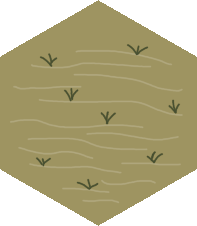
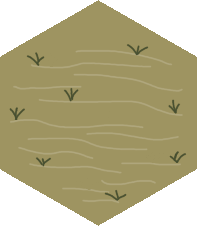
resources on tiles + population

diff --git a/src/Render.js b/src/Render.js
@@ -120,17 +120,38 @@ class Render {
         }
         this.context.closePath();
     }
-    drawHex(hex) {
+    drawResources(hex) {
         const pos = this.getWorldPosition(hex);
-
-        this.context.drawImage(Data.tileImages[hex.biome.imageName], pos.x - Settings.tileWidth / 2, pos.y - Settings.tileHeight / 2);
-
+        const amount = hex.resources.length;
+        const smallSize = Settings.resourceImageSize / 2;
+        const resourcesWidth = Settings.resourceImageSize / 2 * amount;
+        const firstPosition = pos.x - resourcesWidth / 2;
+        const height = pos.y + Settings.hexSize * 0.45;
+        let index = 0;
         // display resource
+        hex.resources.forEach((resource) => {
+            this.context.fillStyle = "rgba(24, 27, 24, 0.8)";
+            this.context.fillRect(firstPosition + index * smallSize, height, smallSize, smallSize);
+            if (hex.isExplored) {
+                this.context.drawImage(Data.resourceImages[resource.resourceData.imageName], firstPosition + index * smallSize, height, smallSize, smallSize);
+            } else {
+                this.context.drawImage(Data.resourceImages["unknownResource"], firstPosition + index * smallSize, height, smallSize, smallSize);
+            }
+            index++;
+            // console.log(`${hex.q}, ${hex.r} : ${resource.resourceData.resourceName}`);
+        });
+
+
         // if (hex.resource !== "nothing") {
         //     this.context.fillStyle = "white";
         //     this.context.fillRect(pos.x, pos.y, Settings.resourceImageSize, Settings.resourceImageSize);
         //     this.context.drawImage(Data.resourceImages[Data.resources[hex.resource].imageName], pos.x, pos.y);
         // }
+    }
+    drawHex(hex) {
+        const pos = this.getWorldPosition(hex);
+        this.context.drawImage(Data.tileImages[hex.biome.imageName], pos.x - Settings.tileWidth / 2, pos.y - Settings.tileHeight / 2);
+        this.drawResources(hex);
 
         // TODO make lines bigger when zoomed out 
         // lineWhidth = Math.round(3 * (1 / this.camera.zoom));

diff --git a/src/Game.js b/src/Game.js
@@ -22,10 +22,11 @@ class Game {
         this.display = new Display();
         this.selection = new Selection();
         this.hotkeys = new Hotkeys();
+        this.community = new Community();
         this.camera = new Camera(this.display.getCanvas());
         this.context = this.display.getContext();
         this.ECS = {};
-        this.ui = new UI(this.selection, this.uiActions, this.inventory);
+        this.ui = new UI(this.selection, this.uiActions, this.inventory, this.community);
 
         this.movementSystem = new MovementSystem(this.world, this.ECS);
         this.render = new Render(this.context, this.display, this.camera, this.world, this.ECS, this.selection);
@@ -55,6 +56,7 @@ class Game {
         this.createExplorer(Settings.startHexPosition.q, Settings.startHexPosition.r);
 
         // start
+        this.ui.update();
         this.loop();
     }
     actionButtonClick(hex, resource, actionName) {
@@ -82,8 +84,8 @@ class Game {
         this.ECS.Name.set(entity, "campfire");
         this.ECS.Position.set(entity, { q: q, r: r });
         this.ECS.Sprite.set(entity, { imageName: "campfire", width: 170, height: 170, radius: 100 });
-        this.ECS.Hitbox.set(entity, { type: "circle", radius: 100 });
-
+        // this.ECS.Hitbox.set(entity, { type: "circle", radius: 100 });
+        return entity;
     }
     createExplorer(q, r) {
         let entity = this.newEntity();
@@ -94,6 +96,7 @@ class Game {
         this.ECS.Movement.set(entity, { path: [] });
         this.ECS.Sprite.set(entity, { imageName: "explorer", width: 64, height: 64, radius: 48 });
         this.ECS.Hitbox.set(entity, { type: "circle", radius: 48 });
+        return entity;
     }
     getMouseWorldPosition(event) {
         let mousePosition = Util.getMousePosition(this.display.getCanvas(), event);

diff --git a/src/UI.js b/src/UI.js
@@ -1,10 +1,11 @@
 "use strict";
 
 class UI {
-    constructor(selection, uiActions, inventory) {
+    constructor(selection, uiActions, inventory, community) {
         this.selection = selection;
         this.uiActions = uiActions;
         this.inventory = inventory;
+        this.community = community;
         Util.quickStructure(document.body, this,
             [
                 "uiContainer",
@@ -22,17 +23,25 @@ class UI {
 
         Util.quickStructure(document.body, this,
             ["uiTwoContainer",
+                "populationText",
                 "uiInventoryContainer"
             ]
         );
 
         Util.hide(this.uiContainer);
     }
+    updatePopulation() {
+        this.populationText.innerText = `${Util.texts["population"]} : ${this.community.population}`;
+    }
     updateInventory() {
         this.uiInventoryContainer.replaceChildren();
         this.inventory.forEach((value, key, map) => {
-            let element = Util.createDOMElement("resourceText", "p", this.uiInventoryContainer);
-            element.innerText = `${key} : ${value}`;
+            Util.quickStructure(this.uiInventoryContainer, this, [
+                "inventoryResourceContainer",
+                "resourceText",
+                "giveResourceButtonText"
+            ]);
+            this.resourceText.innerText = `${key} : ${value}`;
         });
     }
     updateUnit() {
@@ -84,5 +93,6 @@ class UI {
             this.updateHex();
         }
         this.updateInventory();
+        this.updatePopulation();
     }
 }

diff --git a/style/index.css b/style/index.css
@@ -47,6 +47,29 @@ body {
 .uiTwoContainer {
     top: 0;
     right: 0;
+    padding: 4px;
+
+    .uiInventoryContainer {
+        padding: 4px;
+
+        .inventoryResourceContainer {
+            padding: 4px;
+
+            .giveResourceButtonText {
+                display: inline-block;
+                cursor: pointer;
+                padding: 12px;
+                margin: 4px;
+                border: 1px solid #ddd8c8;
+                border-radius: 8px;
+                background: rgba(38, 43, 38, 0.94);
+            }
+
+            .giveResourceButtonText:hover {
+                background: rgba(52, 58, 52, 0.94);
+            }
+        }
+    }
 }
 
 .uiContainer {
@@ -102,7 +125,7 @@ body {
                     width: 64px;
                     height: 64px;
                     padding: 3px;
-                    background: rgba(255, 255, 255, 0.045);
+                    /* background: rgba(255, 255, 255, 0.045); */
                     border: 1px solid rgba(220, 210, 180, 0.12);
                     border-radius: 4px;
                     margin: 4px;

diff --git a/settings/Util.js b/settings/Util.js
@@ -2,6 +2,7 @@
 
 class Util {
     static texts = {
+        // actions
         harvest: "récolte",
         salvage: "récupèrer",
         mine: "extraire",
@@ -9,8 +10,11 @@ class Util {
         cut: "couper",
         drill: "forer",
         destroy: "détruire",
-        recycle: "recycler"
+        recycle: "recycler",
 
+        // HTML elements 
+        giveResourceButtonText: "village",
+        population: "population"
     };
 
     static hide(element) {

diff --git a/index.html b/index.html
@@ -25,8 +25,9 @@
     <script src="src/World.js"></script>
     <script src="src/Player.js"></script>
     <script src="src/Selection.js"></script>
+    <script src="src/Community.js"></script>
     <!-- pièces de moteur dépendantes -->
-     <script src="src/UI.js"></script>
+    <script src="src/UI.js"></script>
     <script src="src/MovementSystem.js"></script>
     <script src="src/Render.js"></script>
     <script src="src/Game.js"></script>

diff --git a/src/Community.js b/src/Community.js
@@ -1,0 +1,9 @@
+"use strict";
+
+class Community {
+    constructor() {
+        this.population = 80;
+        this.growth = 1;
+        this.resourcesGiven = new Map();
+    }
+}
